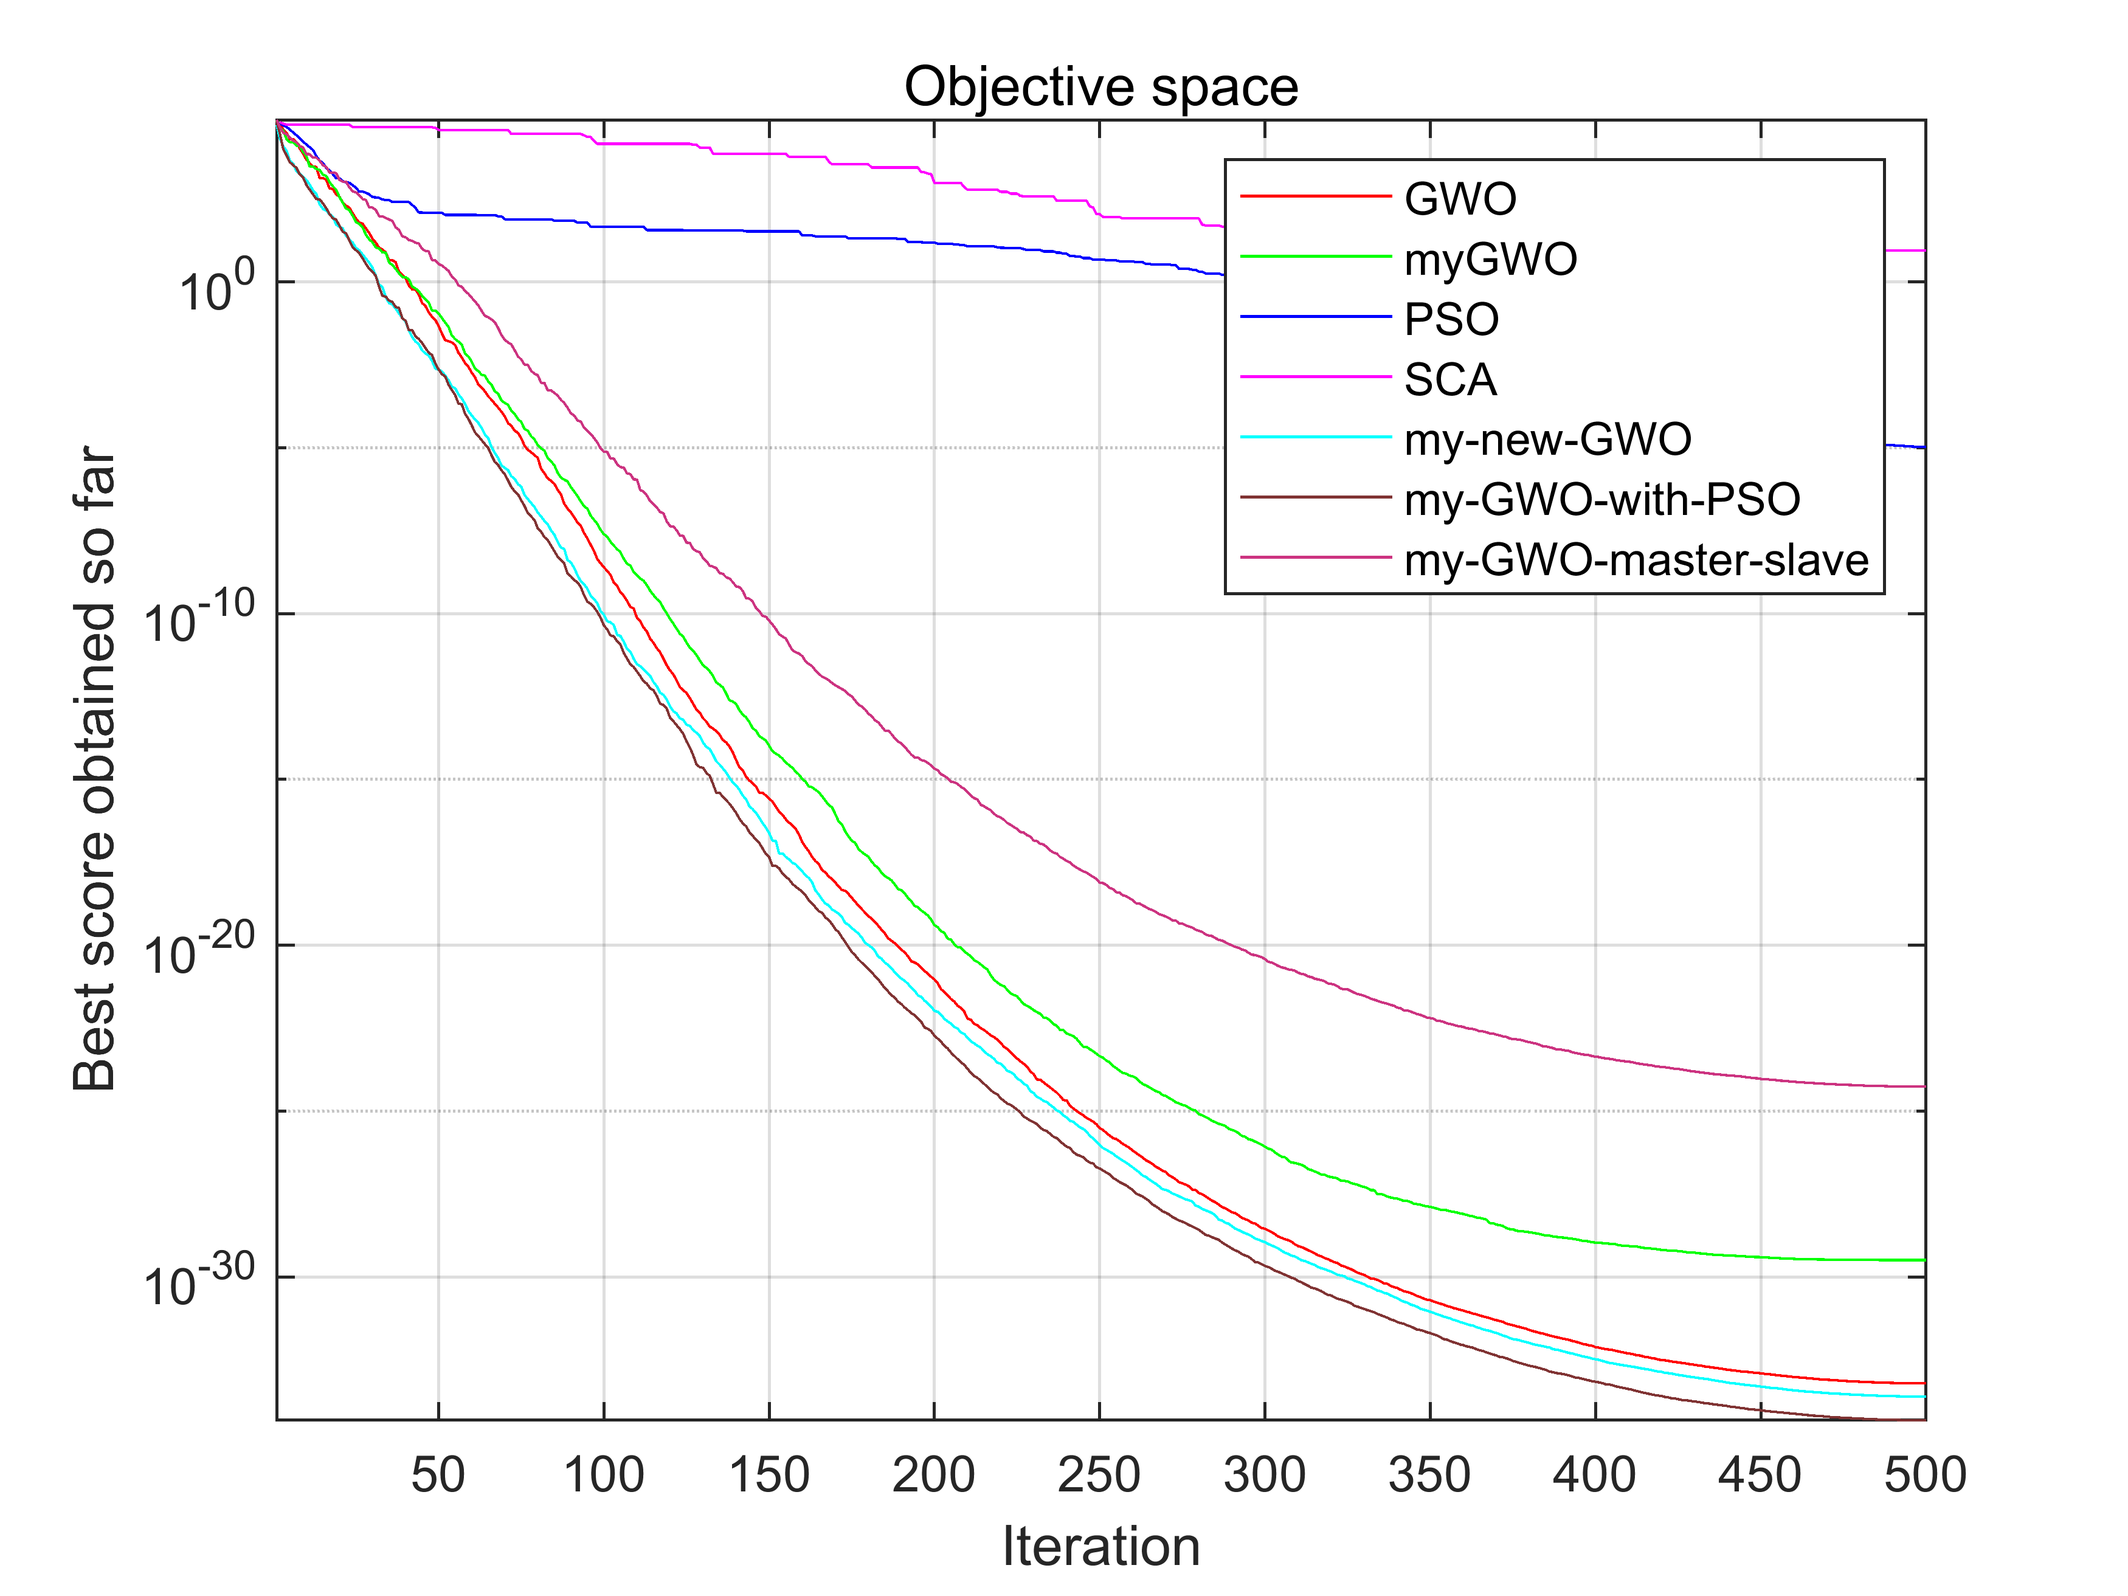
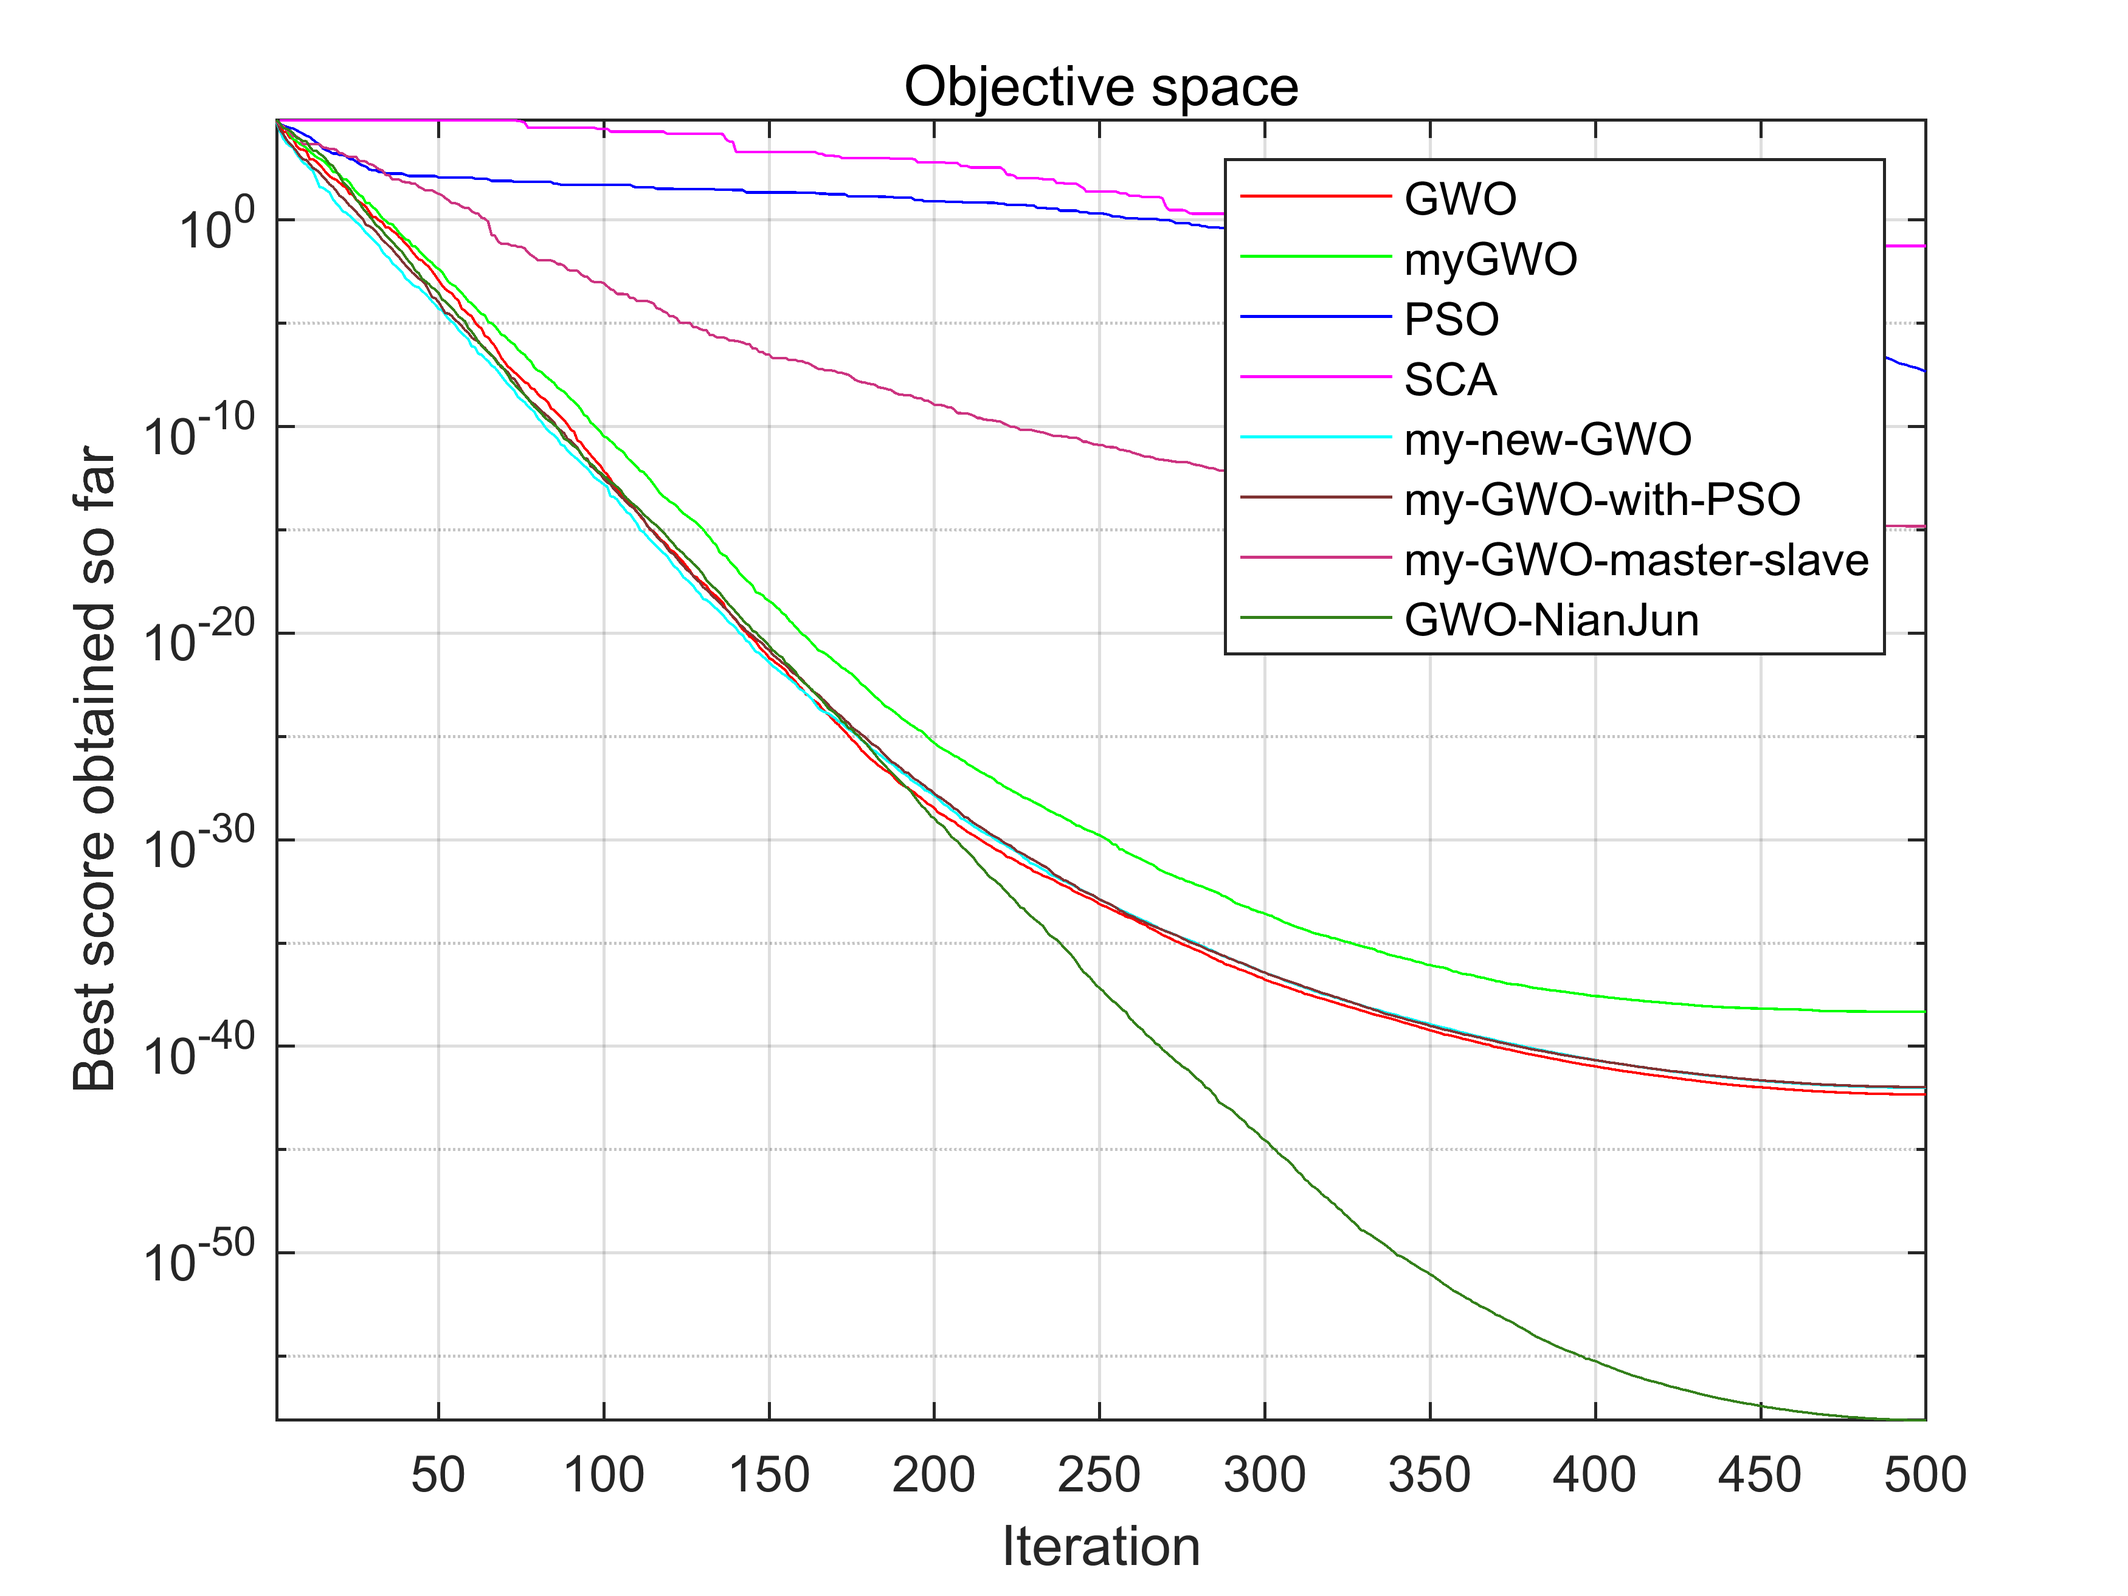
增加GWO与PSO融合算法

diff --git a/GWO_original/Sub_GWO.m b/GWO_original/Sub_GWO.m
@@ -1,29 +1,15 @@
-function [Alpha_score,Alpha_pos,Convergence_curve]=my_new_GWO(SearchAgents_no,Max_iter,lb,ub,dim,fobj)
+function [Alpha_score,Positions] = Sub_GWO(start_i,end_i,Positions,fobj,ub,lb,dim, Max_iter,l)
+    % initialize alpha, beta, and delta_pos
+    Alpha_pos=zeros(1,dim);
+    Alpha_score=inf; %change this to -inf for maximization problems
+    
+    Beta_pos=zeros(1,dim);
+    Beta_score=inf; %change this to -inf for maximization problems
+    
+    Delta_pos=zeros(1,dim);
+    Delta_score=inf; %change this to -inf for maximization problems
 
-% initialize alpha, beta, and delta_pos
-Alpha_pos=zeros(1,dim);
-Alpha_score=inf; %change this to -inf for maximization problems
-
-Beta_pos=zeros(1,dim);
-Beta_score=inf; %change this to -inf for maximization problems
-
-Delta_pos=zeros(1,dim);
-Delta_score=inf; %change this to -inf for maximization problems
-
-%Initialize the positions of search agents
-Positions=initialization(SearchAgents_no,dim,ub,lb);
-
-Convergence_curve=zeros(1,Max_iter);
-
-l=0;% Loop counter
-best_of_every=Positions;
-best_score_of_every=Inf(1,SearchAgents_no);
-best_of_whole=Positions(1,:);
-best_score_of_whole=inf;
-
-% Main loop
-while l<Max_iter
-    for i=1:size(Positions,1)  
+    for i=start_i:end_i
         
        % Return back the search agents that go beyond the boundaries of the search space
         Flag4ub=Positions(i,:)>ub;
@@ -32,14 +18,14 @@ while l<Max_iter
         
         % Calculate objective function for each search agent
         fitness=fobj(Positions(i,:));
-        if fitness < best_score_of_every
-            best_score_of_every = fitness;
-            best_of_every(i,:) = Positions(i,:);
-        end
-        if fitness < best_score_of_whole
-            best_score_of_whole = fitness;
-            best_of_whole = Positions(i,:);
-        end
+%         if fitness < best_score_of_every
+%             best_score_of_every = fitness;
+%             best_of_every(i,:) = Positions(i,:);
+%         end
+%         if fitness < best_score_of_whole
+%             best_score_of_whole = fitness;
+%             best_of_whole = Positions(i,:);
+%         end
 
         % Update Alpha, Beta, and Delta
         if fitness<Alpha_score 
@@ -62,7 +48,7 @@ while l<Max_iter
     a=2-l*((2)/Max_iter); % a decreases linearly fron 2 to 0
     
     % Update the Position of search agents including omegas
-    for i=1:size(Positions,1) % wolves
+    for i=start_i:end_i
         for j=1:size(Positions,2) % dim
                        
             r1=rand(); % r1 is a random number in [0,1]
@@ -99,9 +85,9 @@ while l<Max_iter
 
     %% Myxomycetes information exchange
     old_position = Positions;
-    for i = 1:SearchAgents_no % position to be changed
+    for i = start_i:end_i % position to be changed
         %for j = 1:SearchAgents_no % neighbor selected
-        j = randi([1,SearchAgents_no]);
+        j = randi([start_i,end_i]);
         diff = old_position(i) - old_position(j);
         trust_score = abs(fobj(old_position(i,:)) - fobj(old_position(j,:))) / (norm(diff,2)+0.01);
         if (fobj(old_position(i,:)) - fobj(old_position(j,:)) > 0)
@@ -110,7 +96,7 @@ while l<Max_iter
             Positions(i,:) = Positions(i,:) + 0.1 * (1 - exp(-trust_score)) * diff;
         end
         %end
-        Positions(i,:) = Positions(i,:) + 0.5 * rand() * (best_of_whole - Positions(i,:)) + 0.5 * rand() * (best_of_every(i,:) - Positions(i,:));
+        %Positions(i,:) = Positions(i,:) + 0.5 * rand() * (best_of_whole - Positions(i,:)) + 0.5 * rand() * (best_of_every(i,:) - Positions(i,:));
         for j = 1:dim % prevent error solution
             if Positions(i,j) > ub
                 Positions(i,j) = ub;
@@ -123,10 +109,4 @@ while l<Max_iter
             Positions(i,:) = old_position(i,:);
         end
     end
-
-    %disp(Alpha_pos);
-
-    %%
-    l=l+1;    
-    Convergence_curve(l)=Alpha_score;
 end

diff --git a/GWO_original/my_new_GWO_with_PSO.m b/GWO_original/my_new_GWO_with_PSO.m
@@ -1,4 +1,4 @@
-function [Alpha_score,Alpha_pos,Convergence_curve]=my_new_GWO(SearchAgents_no,Max_iter,lb,ub,dim,fobj)
+function [Alpha_score,Alpha_pos,Convergence_curve]=my_new_GWO_with_PSO(SearchAgents_no,Max_iter,lb,ub,dim,fobj)
 
 % initialize alpha, beta, and delta_pos
 Alpha_pos=zeros(1,dim);
@@ -17,12 +17,13 @@ Convergence_curve=zeros(1,Max_iter);
 
 l=0;% Loop counter
 best_of_every=Positions;
-best_score_of_every=Inf(1,SearchAgents_no);
+best_score_of_every=inf;
 best_of_whole=Positions(1,:);
 best_score_of_whole=inf;
 
 % Main loop
 while l<Max_iter
+    PSO_weight = (Max_iter - l)/Max_iter;
     for i=1:size(Positions,1)  
         
        % Return back the search agents that go beyond the boundaries of the search space
@@ -32,15 +33,17 @@ while l<Max_iter
         
         % Calculate objective function for each search agent
         fitness=fobj(Positions(i,:));
-        if fitness < best_score_of_every
-            best_score_of_every = fitness;
-            best_of_every(i,:) = Positions(i,:);
-        end
+
+        % update every and whole best
         if fitness < best_score_of_whole
             best_score_of_whole = fitness;
             best_of_whole = Positions(i,:);
         end
-
+        if fitness < best_score_of_every
+            best_score_of_every = fitness;
+            best_of_every(i,:) = Positions(i,:);
+        end
+        
         % Update Alpha, Beta, and Delta
         if fitness<Alpha_score 
             Alpha_score=fitness; % Update alpha
@@ -100,17 +103,25 @@ while l<Max_iter
     %% Myxomycetes information exchange
     old_position = Positions;
     for i = 1:SearchAgents_no % position to be changed
-        %for j = 1:SearchAgents_no % neighbor selected
-        j = randi([1,SearchAgents_no]);
-        diff = old_position(i) - old_position(j);
-        trust_score = abs(fobj(old_position(i,:)) - fobj(old_position(j,:))) / (norm(diff,2)+0.01);
-        if (fobj(old_position(i,:)) - fobj(old_position(j,:)) > 0)
-            Positions(i,:) = Positions(i,:) - 0.1 * (1 - exp(-trust_score)) * diff;
-        else
-            Positions(i,:) = Positions(i,:) + 0.1 * (1 - exp(-trust_score)) * diff;
+        rand_wolf_push = zeros(1,dim);
+        for w = 1:SearchAgents_no/10 % neighbor selected
+            j = randi([1,size(Positions,1)]);
+            diff = old_position(i,:) - old_position(j,:);
+            trust_score = abs(fobj(old_position(i,:)) - fobj(old_position(j,:))) / (norm(diff,2)+0.01);
+            if (fobj(old_position(i,:)) - fobj(old_position(j,:)) > 0)
+                rand_wolf_push = rand_wolf_push - 0.1 * (1 - exp(-trust_score)) * diff;
+            else
+                rand_wolf_push = rand_wolf_push + 0.1 * (1 - exp(-trust_score)) * diff;
+            end
         end
-        %end
-        Positions(i,:) = Positions(i,:) + 0.5 * rand() * (best_of_whole - Positions(i,:)) + 0.5 * rand() * (best_of_every(i,:) - Positions(i,:));
+
+        % use pso
+        pso_push=rand()*(best_of_every(i,:)-old_position(i,:)) + rand()*(best_of_whole-old_position(i,:));
+        
+        % integration
+        Positions(i,:) = old_position(i,:) + rand() * rand_wolf_push + rand() * pso_push;
+
+
         for j = 1:dim % prevent error solution
             if Positions(i,j) > ub
                 Positions(i,j) = ub;

diff --git a/GWO_original/my_new_GWO_master_slave.m b/GWO_original/my_new_GWO_master_slave.m
@@ -44,39 +44,57 @@ Delta_score2=inf; %change this to -inf for maximization problems
 best_best=inf;
 num_1=0;
 num_2=0;
+group_num=10;
+Alpha_score_list = zeros(1,group_num);
 while l<Max_iter
-    [Alpha_score1,Positions] = Sub_GWO(1,round(SearchAgents_no/2),Positions,fobj,ub,lb,dim,Max_iter,l);
-    [Alpha_score2,Positions] = Sub_GWO(round(SearchAgents_no/2) + 1,SearchAgents_no,Positions,fobj,ub,lb,dim,Max_iter,l);
-    
+    group_size = round(SearchAgents_no/group_num);
+    for i = 1:group_num
+        [Alpha_score_list(i),Positions] = Sub_GWO(group_size*(i-1) + 1,group_size*(i-1)+group_size,Positions,fobj,ub,lb,dim,Max_iter,l);
+    end
+    for i=1:group_num
+        if best_best > Alpha_score_list(i)
+            best_best = Alpha_score_list(i);
+        end
+    end
     l=l+1;
-    if (Alpha_score1 > Alpha_score2)
-        num_1 = num_1 + 1;
-        num_2 = 0;
-        Alpha_score1 = Alpha_score2;
-    else
-        num_2 = num_2 + 1;
-        num_1 = 0;
+    [~,index] = sort(Alpha_score_list);
+    % update bad group
+    for i = round(group_num/2):group_num
+        orgin_i = index(i);
+        for j = group_size*(orgin_i-1) + 1:group_size*orgin_i
+            rand_num = randi([group_size*(orgin_i-1) + 1, group_size*orgin_i]);
+            Positions(j,:) = update_wolf(l,Max_iter,Positions,dim,fobj,lb,ub,fobj(Positions(rand_num,:)),Positions(rand_num,:));
+        end
     end
-    if (best_best > Alpha_score1)
-        best_best = Alpha_score1;
-    end
+    
+%     if (Alpha_score1 > Alpha_score2)
+%         num_1 = num_1 + 1;
+%         num_2 = 0;z
+%         Alpha_score1 = Alpha_score2;
+%     else
+%         num_2 = num_2 + 1;
+%         num_1 = 0;
+%     end
+%     if (best_best > Alpha_score1)
+%         best_best = Alpha_score1;
+%     end
 
-    disp(num_1);
+%     disp(num_1);
     % update wolf if it sleep for a long time
-    if(num_1 > 2)
-        disp('sleep1');
-        for i = 1:round(SearchAgents_no/2)
-            rand_num = randi([1,round(SearchAgents_no/2)]);
-            Positions(i,:) = update_wolf(l,Max_iter,Positions,dim,fobj,lb,ub,fobj(Positions(rand_num,:)),Positions(rand_num,:));
-        end
-    end
-    if(num_2 > 2)
-        disp('sleep2');
-        for i = round(SearchAgents_no/2)+1:SearchAgents_no
-            rand_num = randi([round(SearchAgents_no/2)+1,SearchAgents_no]);
-            Positions(i,:) = update_wolf(l,Max_iter,Positions,dim,fobj,lb,ub,fobj(Positions(rand_num,:)),Positions(rand_num,:));
-        end
-    end
+%     if(num_1 > 2)
+%         disp('sleep1');
+%         for i = 1:round(SearchAgents_no/2)
+%             rand_num = randi([1,round(SearchAgents_no/2)]);
+%             Positions(i,:) = update_wolf(l,Max_iter,Positions,dim,fobj,lb,ub,fobj(Positions(rand_num,:)),Positions(rand_num,:));
+%         end
+%     end
+%     if(num_2 > 2)
+%         disp('sleep2');
+%         for i = round(SearchAgents_no/2)+1:SearchAgents_no
+%             rand_num = randi([round(SearchAgents_no/2)+1,SearchAgents_no]);
+%             Positions(i,:) = update_wolf(l,Max_iter,Positions,dim,fobj,lb,ub,fobj(Positions(rand_num,:)),Positions(rand_num,:));
+%         end
+%     end
 
 
     

diff --git a/GWO_original/main.m b/GWO_original/main.m
@@ -37,7 +37,7 @@ for kw = 1:22
     if kw == 17
         continue
     end
-    SearchAgents_no=50; % Number of search agents
+    SearchAgents_no=100; % Number of search agents
     Function_name=strcat('F', num2str(kw)); % Name of the test function that can be from F1 to F23 (Table 1,2,3 in the paper)
 
     Max_iteration=500; % Maximum numbef of iterations
@@ -54,6 +54,7 @@ for kw = 1:22
     [my_Best_score4,my_Best_pos4,my_GWO_cg_curve4]=my_new_GWO_temp(dim,SearchAgents_no,Max_iteration,lb,ub,fobj);
     [my_Best_score5,my_Best_pos5,my_GWO_cg_curve5]=my_new_GWO_with_PSO(SearchAgents_no,Max_iteration,lb,ub,dim,fobj);
     [my_Best_score6,my_Best_pos6,my_GWO_cg_curve6]=my_new_GWO_master_slave(SearchAgents_no,Max_iteration,lb,ub,dim,fobj);
+    [my_Best_score7,my_Best_pos7,my_GWO_cg_curve7]=GWO_NianJun(SearchAgents_no,Max_iteration,lb,ub,dim,fobj);
     %figure('Position',[500 500 660 290])
     fig = figure(Visible="on");
     % Draw search space
@@ -76,6 +77,7 @@ for kw = 1:22
     %semilogy(my_GWO_cg_curve4, 'Color', 'yellow');
     semilogy(my_GWO_cg_curve5, 'Color', [0.5 0.2 0.2]);
     semilogy(my_GWO_cg_curve6, 'Color', [0.8 0.2 0.5]);
+    semilogy(my_GWO_cg_curve7, 'Color', [0.2 0.5 0.1]);
     title('Objective space')
     xlabel('Iteration');
     ylabel('Best score obtained so far');
@@ -84,7 +86,7 @@ for kw = 1:22
     grid on
     box on
     %legend('GWO', 'myGWO', 'PSO', 'SCA', 'best-GWO', 'my-new-GWO', 'best-GWO-temp', 'my_GWO_with_PSO');
-    legend('GWO', 'myGWO', 'PSO', 'SCA', 'my-new-GWO', 'my-GWO-with-PSO', 'my-GWO-master-slave');
+    legend('GWO', 'myGWO', 'PSO', 'SCA', 'my-new-GWO', 'my-GWO-with-PSO', 'my-GWO-master-slave', 'GWO-NianJun');
     asdas = num2str(kw);
     disp(asdas)
     file_name = strcat('C:\Users\28898\OneDrive\Documents\MATLAB\GWO_original\all_fun\', num2str(kw), '.png');

diff --git a/GWO_original/SCA.m b/GWO_original/SCA.m
@@ -33,7 +33,7 @@
 
 function [Destination_fitness,Destination_position,Convergence_curve]=SCA(N,Max_iteration,lb,ub,dim,fobj)
 
-display('SCA is optimizing your problem');
+%display('SCA is optimizing your problem');
 
 %Initialize the set of random solutions
 X=initialization(N,dim,ub,lb);
@@ -109,7 +109,7 @@ while t<=Max_iteration
     
     % Display the iteration and best optimum obtained so far
     if mod(t,50)==0
-        display(['At iteration ', num2str(t), ' the optimum is ', num2str(Destination_fitness)]);
+        %display(['At iteration ', num2str(t), ' the optimum is ', num2str(Destination_fitness)]);
     end
     
     % Increase the iteration counter

diff --git a/GWO_original/update_wolf.m b/GWO_original/update_wolf.m
@@ -30,14 +30,14 @@ function [new_wolf, new_score] = update_wolf(l, Max_iter, Positions, dim, fobj, 
 %         Alpha_pos = mid_wolf;
 %     end
     if Delta < 0  % uphill move (good move)
-        disp('better')
+        %disp('better')
         Alpha_score = new_alpha_score;
         Alpha_pos = mid_wolf;
     else % downhill move (bad move)
         P=exp(-Delta/ (l + 1));
-        disp('same')
+        %disp('same')
         if rand()<=P
-            disp('worse')
+            %disp('worse')
             Alpha_score = new_alpha_score;
             Alpha_pos = mid_wolf;
         end

diff --git a/GWO_original/IGWO.m b/GWO_original/IGWO.m
@@ -161,7 +161,7 @@ while l<Max_iter
 
     if (Alpha_score > fobj(Alpha_pos))
         Alpha_score = fobj(Alpha_pos);
-        disp('yes')
+        %disp('yes')
     end
 
     
